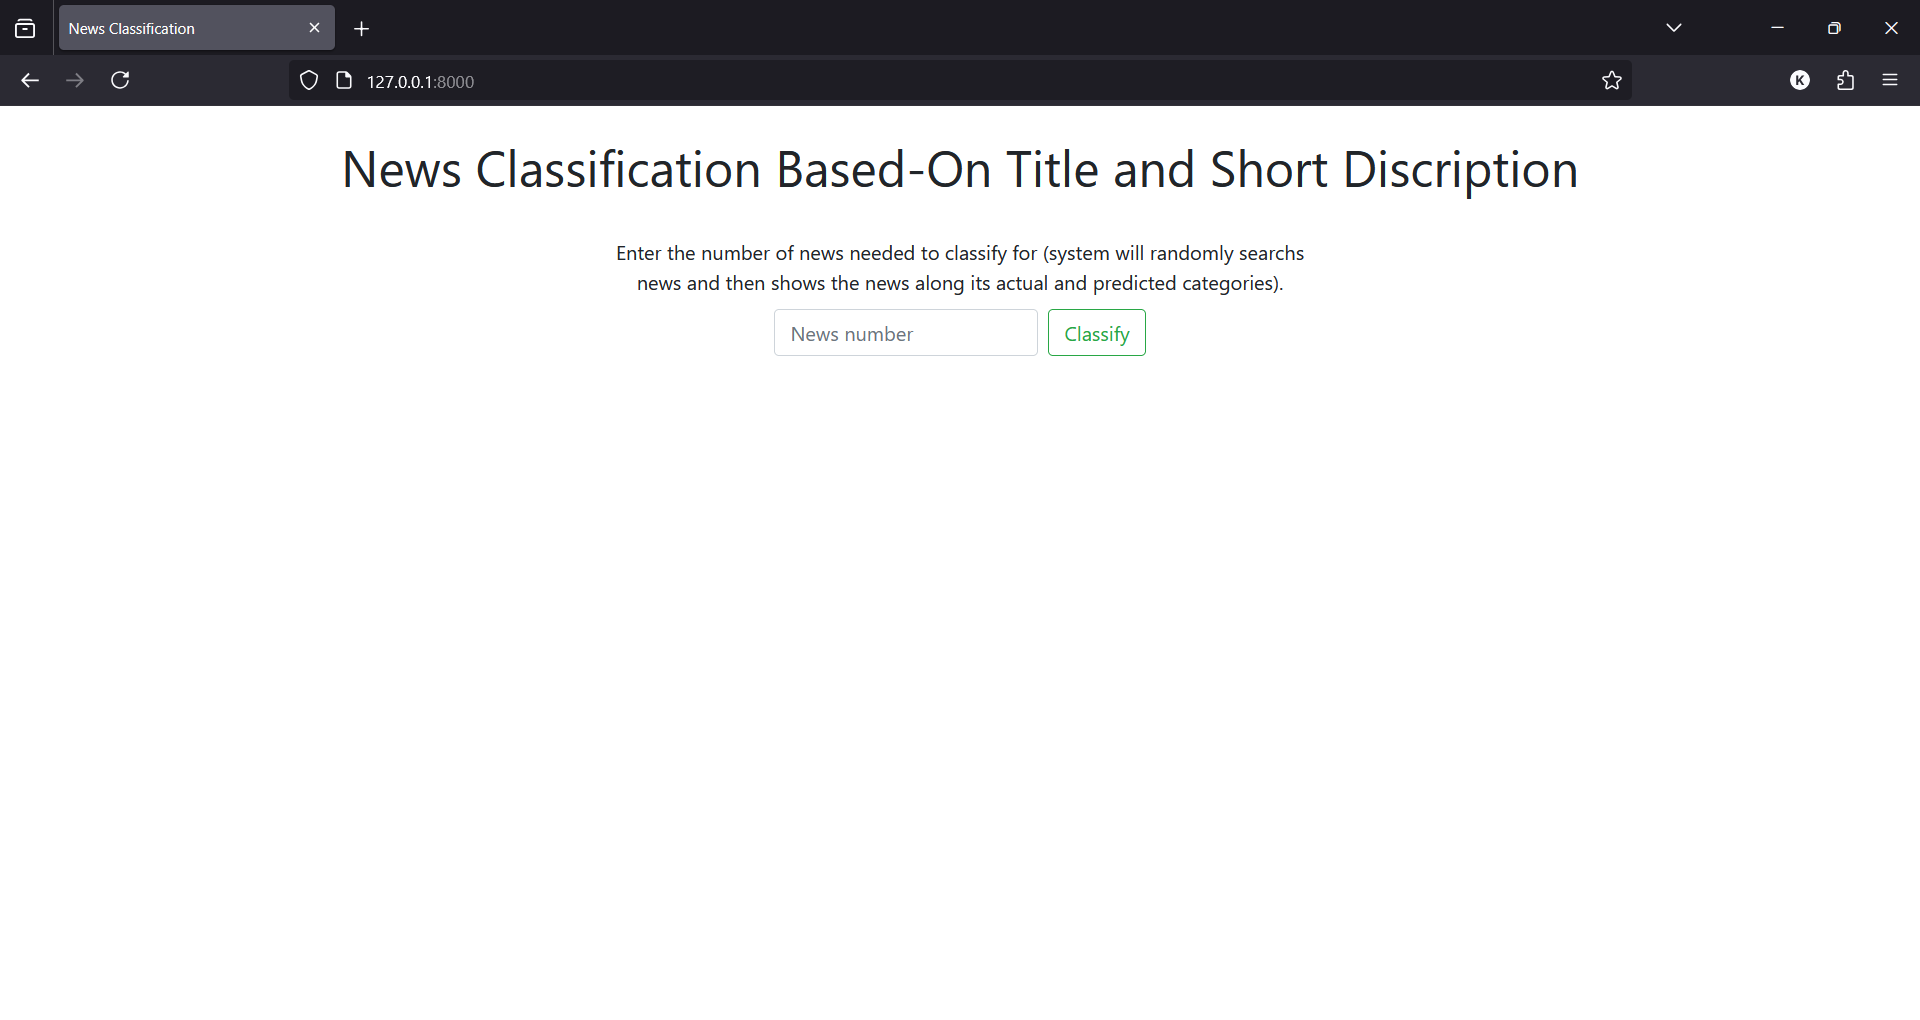
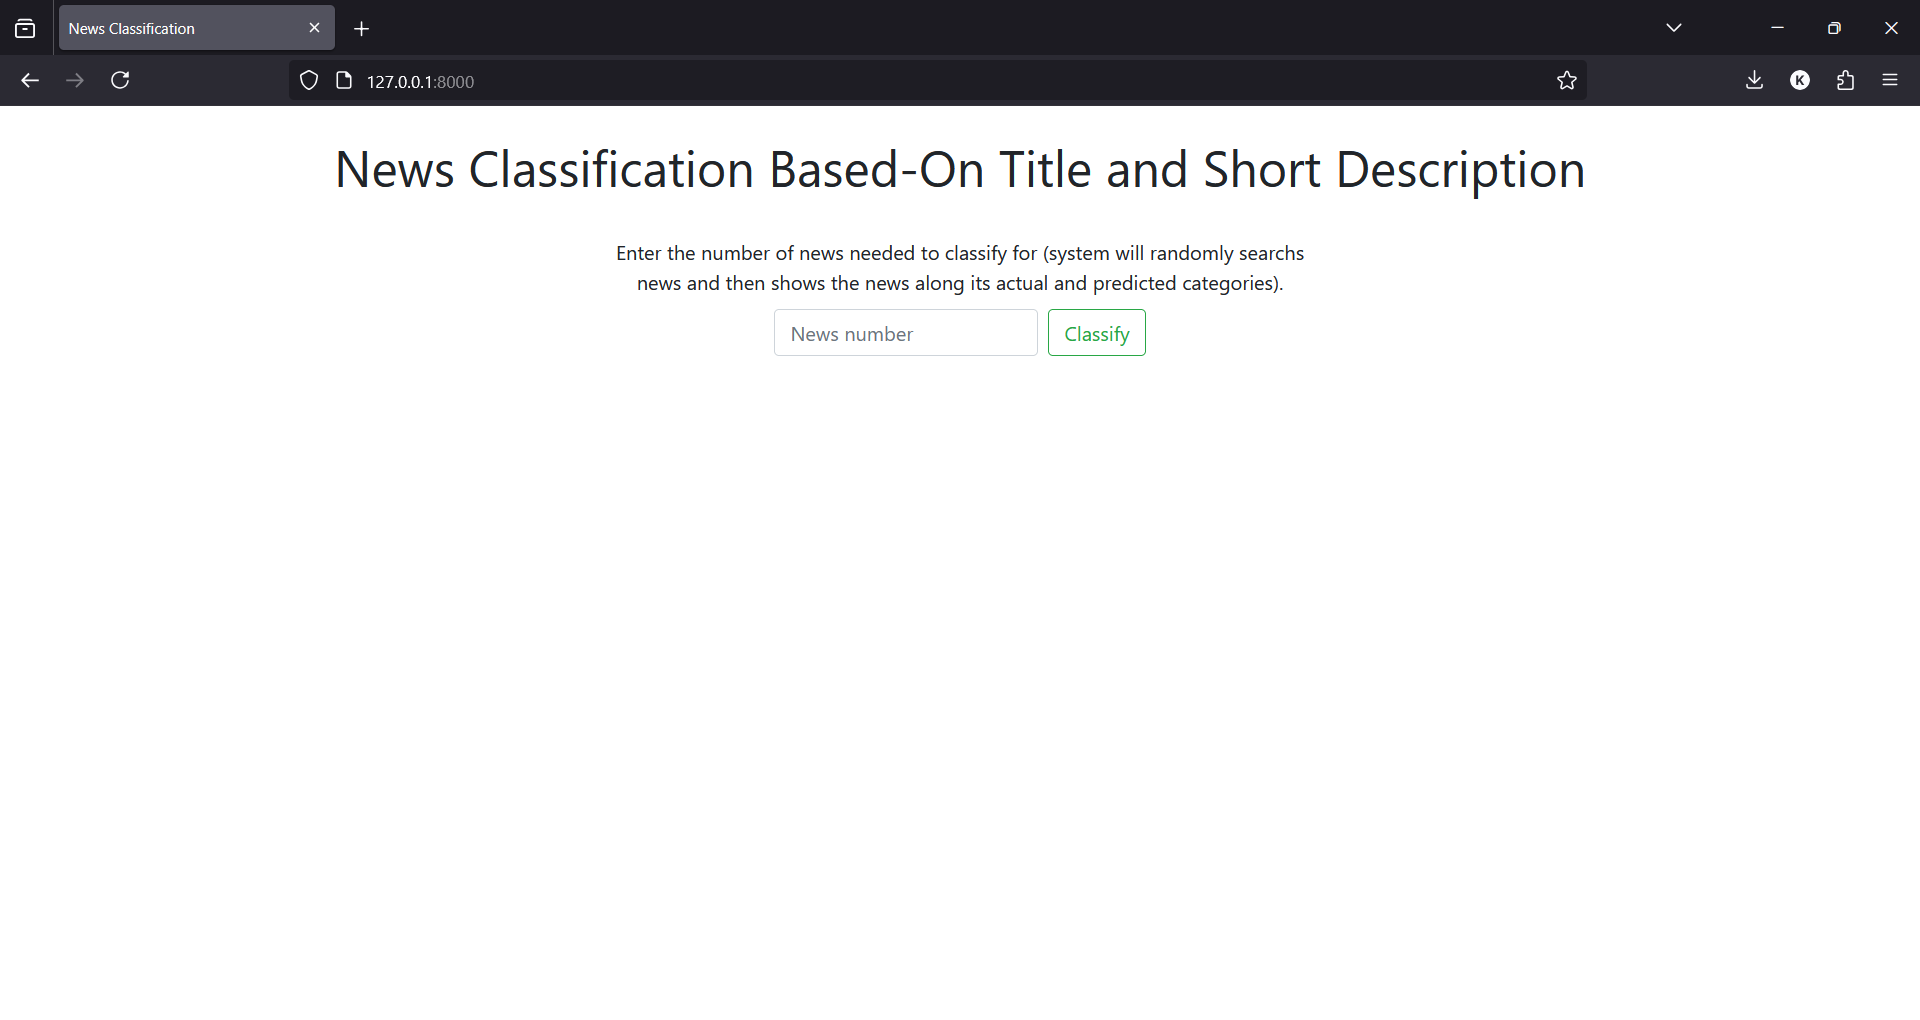
Fixed a word in project title

Changed region(s): [[0.1562, 0.152, 0.8438, 0.1824], [0.8125, 0.0608, 0.8438, 0.0912]]

diff --git a/templates/classified_news.html b/templates/classified_news.html
@@ -17,7 +17,7 @@
 
     <!-- headline showing project name -->
     <br>
-    <h1 class="headline">News Classification Based-On Title and Short Discription</h1>
+    <h1 class="headline">News Classification Based-On Title and Short Description</h1>
     <br>
 
     <!-- text box for entering news number needed to classify for -->
@@ -39,7 +39,7 @@
         <tr>
           <th scope="col">#</th>
           <th scope="col">Actual Category</th>
-          <th scope="col">News (Title + Short Discription)</th>
+          <th scope="col">News (Title + Short Description)</th>
           <th scope="col">Predicted Category</th>
         </tr>
       </thead>

diff --git a/templates/index.html b/templates/index.html
@@ -17,7 +17,7 @@
 
     <!-- headline showing project name -->
     <br>
-    <h1 class="headline">News Classification Based-On Title and Short Discription</h1>
+    <h1 class="headline">News Classification Based-On Title and Short Description</h1>
     <br>
 
     <!-- text box for entering news number needed to classify for -->

diff --git a/README.md b/README.md
@@ -1,4 +1,4 @@
-# News Classification Based-On Title and Short Discription
+# News Classification Based-On Title and Short description
 This project uses the [News Category Dataset](https://www.kaggle.com/datasets/rmisra/news-category-dataset) as the primary dataset to train logistic model enabling news classification 
 based-on title and short description.
 
